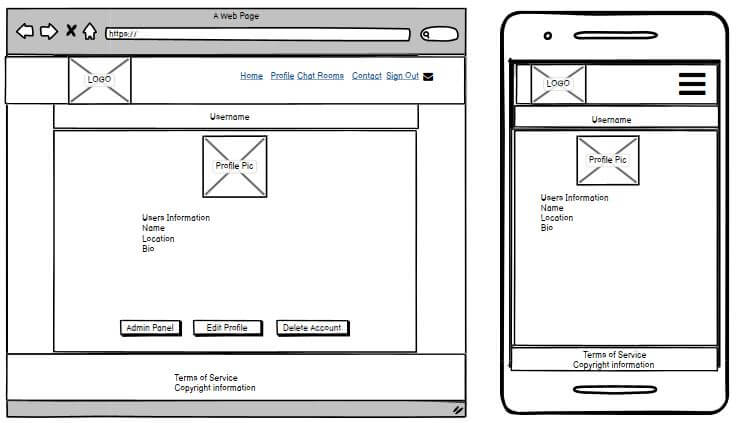
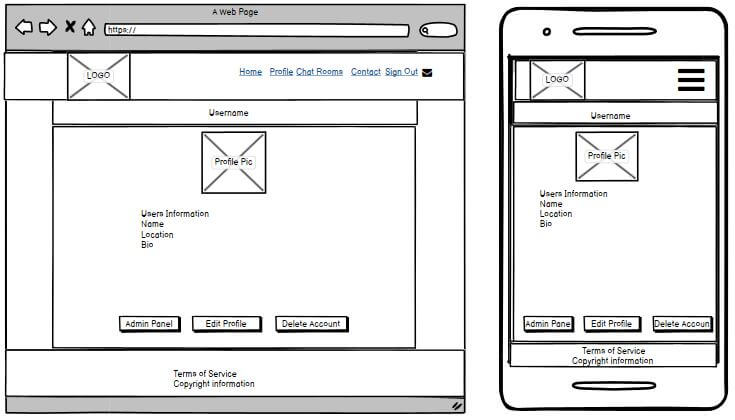
Documentation: Updated readme and mockup image

Changed region(s): [[0.0, 0.0, 1.0, 0.9905]]

diff --git a/README.md b/README.md
@@ -1,7 +1,7 @@
 # Chat To The Mat
 Chat To The Mat is an online chat service where users can create online friendships. A premium subscription service 
 is available to users that allows access to our 'Gold Rooms' and enables the private messaging functionality. The live website can be found [here](https://chat-to-the-mat.herokuapp.com/).<br>
-![Mockup](readme_images/mockup.png)
+![Mockup](readme_images/mockup.jpg)
 
 ## Table of Contents
 * [User Experience Design (UX)](#User-Experience-Design)
@@ -251,7 +251,7 @@ Users who have a premium subscription will be able to add a url to display a pro
 Home:<br>
 ![Home](readme_images/wireframes/home.jpg)<br>
 
-Contct:<br>
+Contact:<br>
 ![Contact](readme_images/wireframes/contact.jpg)<br>
 
 Profile:<br>
@@ -455,8 +455,30 @@ The following commands were used for version control throughout the project:
 1. Enter the repository name for the project and click search.
 1. Once the repo has been found, click the connect button.
 
+
+**Add PostgreSQL Database:**
+
+1. Click the resources tab.
+1. Under Add-ons seach for Heroku Postgres and then click on it when it appears.
+1. Select Plan name Hobby Dev - Free and then click Submit Order Form.
+
 **Set environment variables:**
 
+1. Click on the settings tab and then click reveal config vars.
+1. Variables added:<br>
+    * AWS_ACCESS_KEY_ID
+    * AWS_SECRET_ACCESS_KEY
+    * DATABASE_URL
+    * EMAIL_HOST_PASS
+    * EMAIL_HOST_USER
+    * SECRET_KEY
+    * STRIPE_PRICE_ID
+    * STRIPE_PUBLIC_KEY
+    * STRIPE_SECRET_KEY
+    * STRIPE_WH_SECRET
+    * USE_AWS
+
+*Please note the values for these variables depend on your own personal set up. For security reasons I will not add the values here.*
 
 **Enable automatic deployment:**
 1. Click the Deploy tab
@@ -468,11 +490,11 @@ The following commands were used for version control throughout the project:
 1. Click the Code drop down menu.
 1. Either Download the ZIP file, unpackage locally and open with IDE (This route ends here) OR Copy Git URL from the HTTPS dialogue box.
 1. Open your developement editor of choice and open a terminal window in a directory of your choice.
-1. Use the 'git clone' command in terminal followed by the copied git URL.
+1. Use the `git clone` command in terminal followed by the copied git URL.
 1. A clone of the project will be created locally on your machine.
 
 Once the project has been loaded into an IDE of choice, run the following command in the shell to install all the required packages:
-> pip install -r requirements.txt
+`pip install -r requirements.txt`
 
 ### Fork Project 
 
